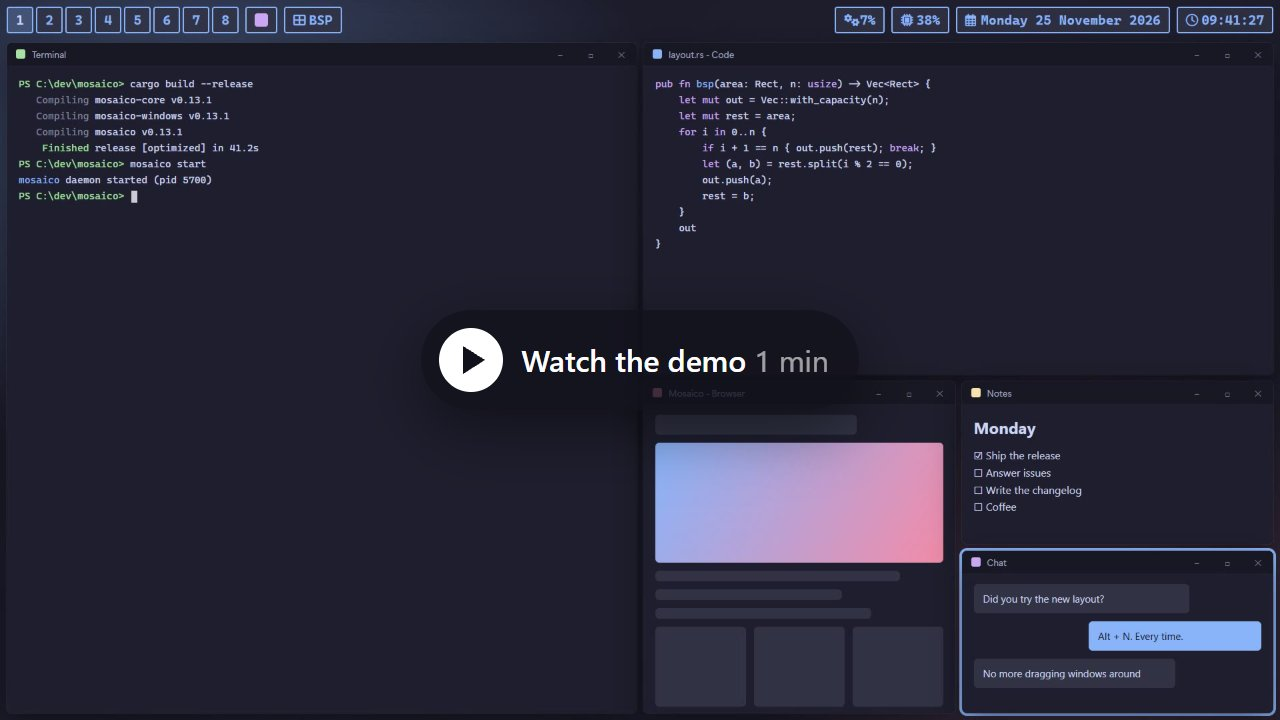
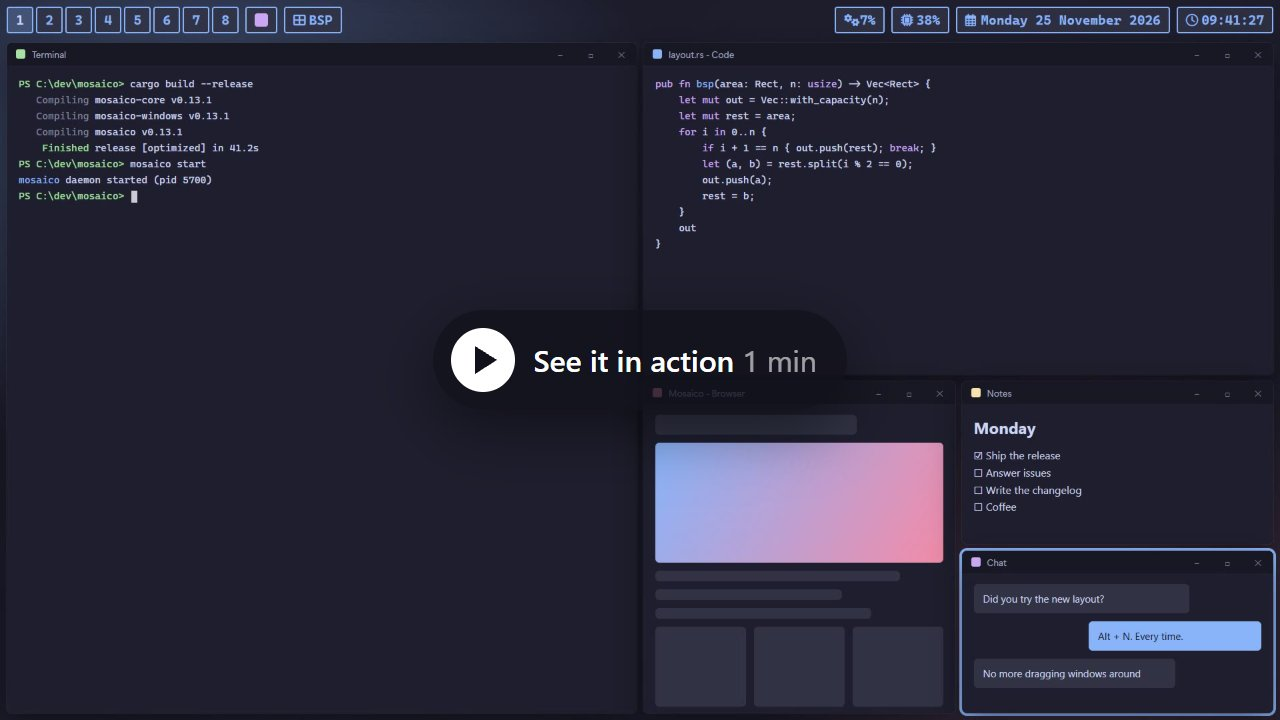
docs(website): rewrite headings and blurbs in mosaico's own words
Several lines on the landing page read too close to other tiling window
manager sites: the meta description, the hero blurb, the features heading,
the first feature card, the demo button, the install heading and the
footer tagline. They now describe mosaico in its own terms. The README
poster and the docs footer follow the new wording.

Changed region(s): [[0.3438, 0.4583, 0.6562, 0.55]]

diff --git a/website/landing/index.html b/website/landing/index.html
@@ -4,7 +4,7 @@
   <meta charset="utf-8">
   <meta name="viewport" content="width=device-width, initial-scale=1">
   <title>Mosaico - a tiling window manager for Windows</title>
-  <meta name="description" content="Mosaico is a free, open source tiling window manager for Windows, written in Rust. Every window side by side, nothing on top of anything else.">
+  <meta name="description" content="Mosaico is a free, open source tiling window manager for Windows, written in Rust. It arranges your windows into a layout as they open, and you drive it from the keyboard.">
   <meta property="og:title" content="Mosaico">
   <meta property="og:description" content="A tiling window manager for Windows. Every window in its place.">
   <meta property="og:image" content="assets/poster.jpg">
@@ -36,12 +36,12 @@
     <section class="hero wrap">
       <p class="eyebrow">Tiling window manager for Windows</p>
       <h1>Every window<br>in its place.</h1>
-      <p class="lede">Mosaico puts every window side by side as it opens. You move between them with the keyboard, and nothing hides behind anything else.</p>
+      <p class="lede">Mosaico arranges your windows into a layout the moment they open, so you spend your time in them instead of dragging them around. Hold Alt and the keyboard does the rest.</p>
       <div class="cta">
         <a class="btn" href="#install">Install</a>
         <button class="btn btn-ghost" id="play" type="button">
           <svg viewBox="0 0 24 24" width="16" height="16" aria-hidden="true"><path d="M7 4.5v15l12.5-7.5z" fill="currentColor"/></svg>
-          Watch the demo <span class="pill">1 min</span>
+          See it in action <span class="pill">1 min</span>
         </button>
       </div>
       <p class="fine">Version 0.13.1 &middot; Windows &middot; MIT licensed</p>
@@ -53,7 +53,7 @@
     </section>
 
     <section id="features" class="wrap section">
-      <h2>Every window has a place.</h2>
+      <h2>Room for everything.</h2>
       <p class="intro">Open an app and Mosaico finds room for it. Close one and the rest close the gap. The layout is decided for you, and you can change it with one key.</p>
 
       <div class="grid">
@@ -61,7 +61,7 @@
           <div class="art art-tiles" aria-hidden="true">
             <div class="t t1"><b>1</b></div><div class="t t2"><b>2</b></div><div class="t t3"><b>3</b></div><div class="t t4"><b>4</b></div>
           </div>
-          <h3>Windows tile as they open</h3>
+          <h3>Tiling, automatically</h3>
           <p>New windows split the space with the ones already there. No dragging, no snapping, no lining things up by hand.</p>
         </article>
 
@@ -221,7 +221,7 @@ mosaico.<span class="fn">on</span>(<span class="st">"window_managed"</span>, <sp
 
     <section id="install" class="wrap section install">
       <img class="big-logo" src="assets/logo.svg" alt="" width="88" height="88">
-      <h2>Get Mosaico.</h2>
+      <h2>Try it today.</h2>
       <p class="intro">Free and open source. One command installs it for your user, with no dependencies and no admin rights, and <code>mosaico update</code> keeps it current.</p>
 
       <div class="cmd">
@@ -244,7 +244,7 @@ mosaico.<span class="fn">on</span>(<span class="st">"window_managed"</span>, <sp
   </main>
 
   <footer class="wrap foot">
-    <div class="foot-l"><img src="assets/logo.svg" alt="" width="20" height="20"><span>Mosaico 0.13.1 &middot; Written in Rust</span></div>
+    <div class="foot-l"><img src="assets/logo.svg" alt="" width="20" height="20"><span>Mosaico 0.13.1 &middot; MIT licensed, made with Rust</span></div>
     <nav>
       <a href="https://github.com/jmelosegui/mosaico">GitHub</a>
       <a href="docs/guide/getting-started.html">Documentation</a>

diff --git a/README.md b/README.md
@@ -2,7 +2,7 @@
 
 A fast, configurable tiling window manager for Windows, written in Rust.
 
-[![Watch the one-minute demo](website/landing/assets/readme-demo.jpg)](https://jmelosegui.com/mosaico/assets/mosaico-demo.mp4)
+[![See Mosaico in action, a one-minute demo](website/landing/assets/readme-demo.jpg)](https://jmelosegui.com/mosaico/assets/mosaico-demo.mp4)
 
 **Website:** [jmelosegui.com/mosaico](https://jmelosegui.com/mosaico/) | **Docs:** [jmelosegui.com/mosaico/docs](https://jmelosegui.com/mosaico/docs/)
 
